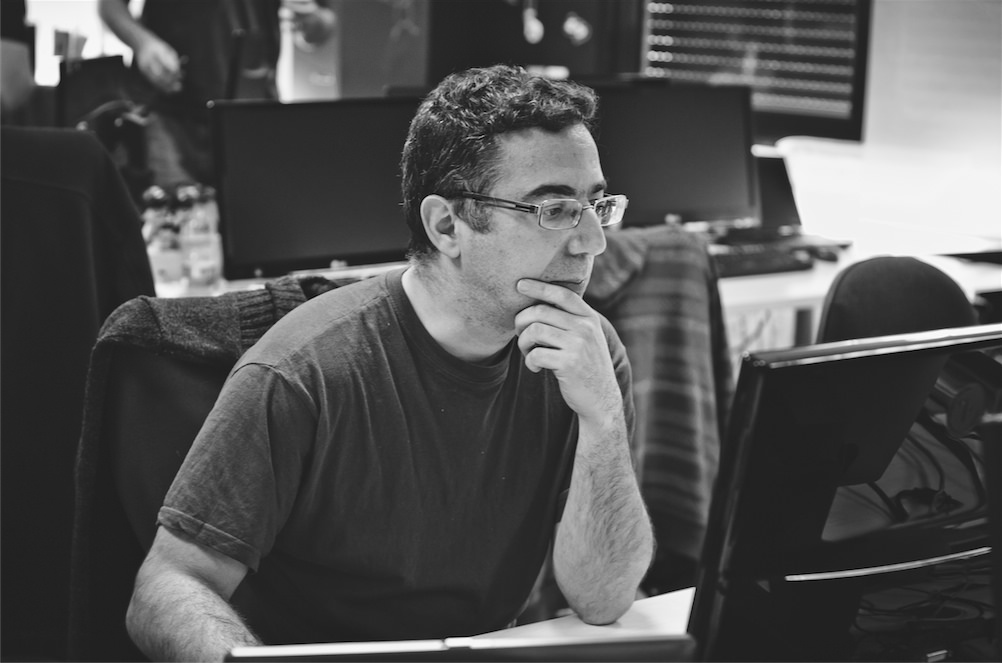
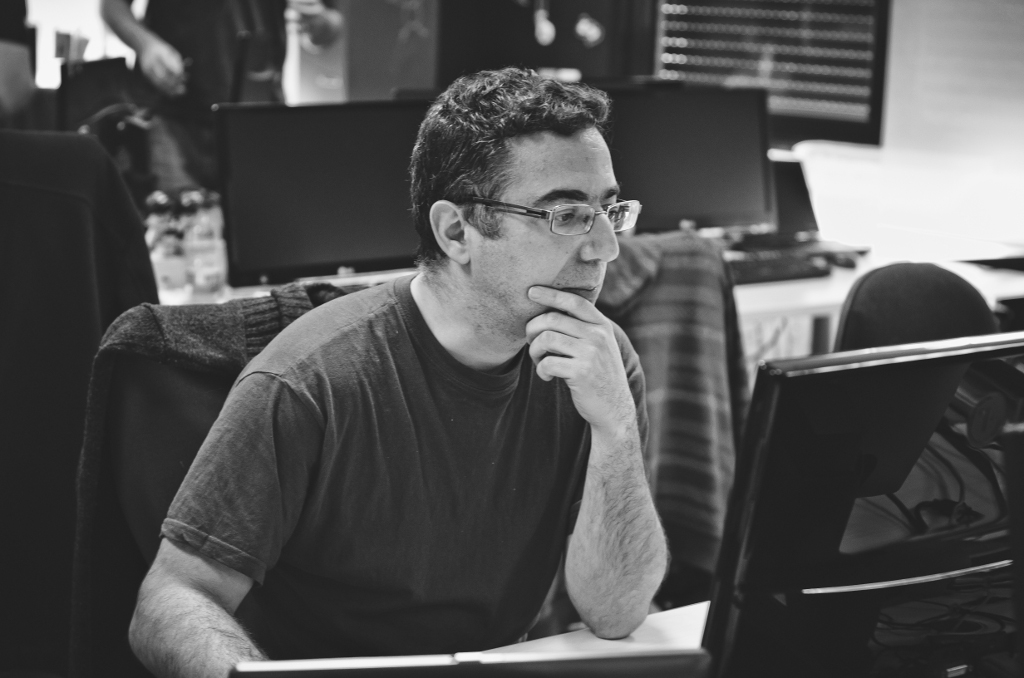
Minified and reduced images

diff --git a/gulpfile.js b/gulpfile.js
@@ -11,6 +11,7 @@ var gulp = require('gulp'),
     concat = require('gulp-concat'),
 
     imagemin = require('gulp-imagemin'),
+    pngcrush = require('imagemin-pngcrush'),
 
     watch = require('gulp-watch'),
     size = require('gulp-filesize'),
@@ -117,9 +118,13 @@ gulp.task("scripts", function () {
 
 gulp.task("imagemin", function () {
     return gulp.src(paths.images)
-    .pipe(plumber())
-    .pipe(imagemin({progressive: true}))
-    .pipe(gulp.dest(paths.dist+"/images"));
+        .pipe(imagemin({
+            progressive: true,
+            svgoPlugins: [{removeViewBox: false}],
+            use: [pngcrush()]
+        }))
+        .pipe(plumber())
+        .pipe(gulp.dest(paths.dist+"/images"));
 });
 
 /**************************************

diff --git a/app/styles/modules/projects.scss b/app/styles/modules/projects.scss
@@ -20,6 +20,7 @@
         @extend %xxlarge;
         @extend %title;
         color: $orange;
+        margin: 0;
     }
     .project {
         color: $white;
